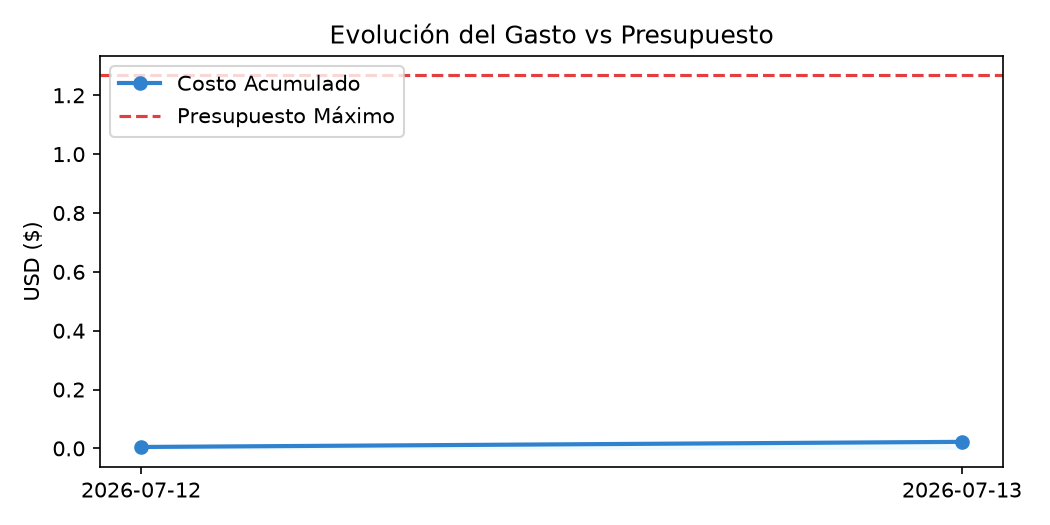
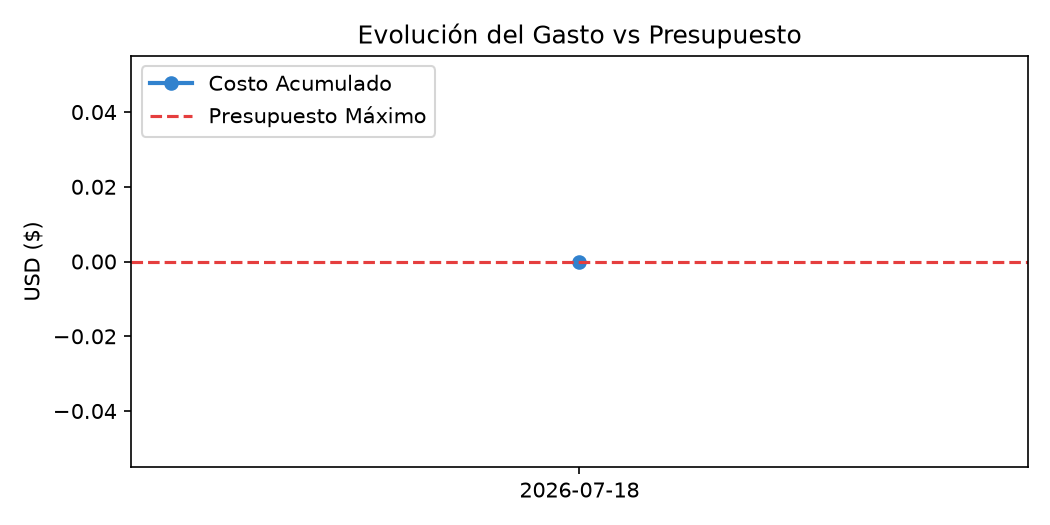
corrige error en log de ejecucion de query

diff --git a/src/utils/database.py b/src/utils/database.py
@@ -37,7 +37,7 @@ def execute_query(query: str, limit: int = 20) -> pd.DataFrame:
 
             tabla_limitada = tabla.head(limit)
             
-            logger.info(f"Consulta ejecutada  Se recuperaron las primeras {tabla.shape[0]} filas (Límite máximo configurado: {limit}).")
+            logger.info(f"Consulta ejecutada  Se recuperaron {tabla.shape[0]} filas (Límite máximo configurado: {limit}).")
             return tabla_limitada
         
     # 1. Error Específico: Falla la conexión (credenciales mal puestas, server apagado, puerto bloqueado)   

diff --git a/artifacts/REPORTE_TOKENOMICS.md b/artifacts/REPORTE_TOKENOMICS.md
@@ -1,14 +1,14 @@
 # Reporte Ejecutivo de Tokenomics y Telemetría
-**Fecha de generación:** 13/07/2026 10:59
+**Fecha de generación:** 18/07/2026 09:45
 
 ## Resumen General de Consumo
 
 | Métrica de Control | Valor Acumulado |
 | :--- | :--- |
-| **Presupuesto Máximo Asignado** | $1.2700 USD |
-| **Costo Financiero Incurrido** | $0.0223 USD |
-| **Presupuesto Restante** | $1.2477 USD |
-| Tokens Totales Consumidos | 89,007 tokens |
+| **Presupuesto Máximo Asignado** | $0.0000 USD |
+| **Costo Financiero Incurrido** | $0.0000 USD |
+| **Presupuesto Restante** | $0.0000 USD |
+| Tokens Totales Consumidos | 9,430 tokens |
 | Latencia Promedio de API | 0.000 ms |
 
 ## Monitoreo Visual del Presupuesto
@@ -19,51 +19,8 @@
 
 |    | fecha      | hora   | provider   | model                 |   input_tokens |   thinking_tokens |   output_tokens | costo_total   | costo_acumulado   |
 |---:|:-----------|:-------|:-----------|:----------------------|---------------:|------------------:|----------------:|:--------------|:------------------|
-|  0 | 2026-07-12 | 19:55  | GEMINI     | gemini-3.1-flash-lite |          1,695 |                 0 |              16 | $0.00043      | $0.00043          |
-|  1 | 2026-07-12 | 19:57  | GEMINI     | gemini-3.1-flash-lite |          1,695 |                 0 |              16 | $0.00043      | $0.00086          |
-|  2 | 2026-07-12 | 19:59  | GEMINI     | gemini-3.1-flash-lite |          1,695 |                 0 |              16 | $0.00043      | $0.00128          |
-|  3 | 2026-07-12 | 20:01  | GEMINI     | gemini-3.1-flash-lite |          1,695 |                 0 |              16 | $0.00043      | $0.00171          |
-|  4 | 2026-07-12 | 20:04  | GEMINI     | gemini-3.1-flash-lite |          1,695 |                 0 |              16 | $0.00043      | $0.00214          |
-|  5 | 2026-07-12 | 20:13  | GEMINI     | gemini-3.1-flash-lite |          1,695 |                 0 |              16 | $0.00043      | $0.00257          |
-|  6 | 2026-07-12 | 20:17  | GEMINI     | gemini-3.1-flash-lite |          1,695 |                 0 |              16 | $0.00043      | $0.00299          |
-|  7 | 2026-07-12 | 20:34  | GEMINI     | gemini-3.1-flash-lite |          1,708 |                 0 |             119 | $0.00046      | $0.00345          |
-|  8 | 2026-07-12 | 20:40  | GEMINI     | gemini-3.1-flash-lite |          1,731 |                 0 |             122 | $0.00046      | $0.00391          |
-|  9 | 2026-07-12 | 20:45  | GEMINI     | gemini-3.1-flash-lite |          1,731 |                 0 |             121 | $0.00046      | $0.00438          |
-| 10 | 2026-07-12 | 21:10  | GEMINI     | gemini-3.1-flash-lite |          1,731 |                 0 |             124 | $0.00046      | $0.00484          |
-| 11 | 2026-07-13 | 00:40  | GEMINI     | gemini-3.1-flash-lite |          1,731 |                 0 |             121 | $0.00046      | $0.00530          |
-| 12 | 2026-07-13 | 00:40  | GEMINI     | gemini-3.1-flash-lite |          1,721 |                 0 |             213 | $0.00048      | $0.00579          |
-| 13 | 2026-07-13 | 00:41  | GEMINI     | gemini-3.1-flash-lite |          1,722 |                 0 |             169 | $0.00047      | $0.00626          |
-| 14 | 2026-07-13 | 00:41  | GEMINI     | gemini-3.1-flash-lite |          1,719 |                 0 |             122 | $0.00046      | $0.00672          |
-| 15 | 2026-07-13 | 00:41  | GEMINI     | gemini-3.1-flash-lite |          1,724 |                 0 |             181 | $0.00048      | $0.00720          |
-| 16 | 2026-07-13 | 00:54  | GEMINI     | gemini-3.1-flash-lite |          1,731 |                 0 |             124 | $0.00046      | $0.00766          |
-| 17 | 2026-07-13 | 00:54  | GEMINI     | gemini-3.1-flash-lite |          1,721 |                 0 |             213 | $0.00048      | $0.00814          |
-| 18 | 2026-07-13 | 00:57  | GEMINI     | gemini-3.1-flash-lite |          1,731 |                 0 |             121 | $0.00046      | $0.00861          |
-| 19 | 2026-07-13 | 00:59  | GEMINI     | gemini-3.1-flash-lite |          1,731 |                 0 |             123 | $0.00046      | $0.00907          |
-| 20 | 2026-07-13 | 01:01  | GEMINI     | gemini-3.1-flash-lite |          1,721 |                 0 |             213 | $0.00048      | $0.00955          |
-| 21 | 2026-07-13 | 01:02  | GEMINI     | gemini-3.1-flash-lite |          1,731 |                 0 |             121 | $0.00046      | $0.01002          |
-| 22 | 2026-07-13 | 01:04  | GEMINI     | gemini-3.1-flash-lite |          1,731 |                 0 |             121 | $0.00046      | $0.01048          |
-| 23 | 2026-07-13 | 01:06  | GEMINI     | gemini-3.1-flash-lite |          1,731 |                 0 |             121 | $0.00046      | $0.01094          |
-| 24 | 2026-07-13 | 01:07  | GEMINI     | gemini-3.1-flash-lite |          1,731 |                 0 |             121 | $0.00046      | $0.01141          |
-| 25 | 2026-07-13 | 01:07  | GEMINI     | gemini-3.1-flash-lite |          1,721 |                 0 |             213 | $0.00048      | $0.01189          |
-| 26 | 2026-07-13 | 01:07  | GEMINI     | gemini-3.1-flash-lite |          1,722 |                 0 |             171 | $0.00047      | $0.01236          |
-| 27 | 2026-07-13 | 01:07  | GEMINI     | gemini-3.1-flash-lite |          1,719 |                 0 |             122 | $0.00046      | $0.01282          |
-| 28 | 2026-07-13 | 10:18  | GEMINI     | gemini-3.1-flash-lite |          1,731 |                 0 |             121 | $0.00046      | $0.01329          |
-| 29 | 2026-07-13 | 10:19  | GEMINI     | gemini-3.1-flash-lite |          1,721 |                 0 |             213 | $0.00048      | $0.01377          |
-| 30 | 2026-07-13 | 10:19  | GEMINI     | gemini-3.1-flash-lite |          1,722 |                 0 |             171 | $0.00047      | $0.01424          |
-| 31 | 2026-07-13 | 10:19  | GEMINI     | gemini-3.1-flash-lite |          1,719 |                 0 |             122 | $0.00046      | $0.01470          |
-| 32 | 2026-07-13 | 10:19  | GEMINI     | gemini-3.1-flash-lite |          1,724 |                 0 |             186 | $0.00048      | $0.01518          |
-| 33 | 2026-07-13 | 10:52  | GEMINI     | gemini-3.1-flash-lite |          1,731 |                 0 |             121 | $0.00046      | $0.01564          |
-| 34 | 2026-07-13 | 10:52  | GEMINI     | gemini-3.1-flash-lite |          1,721 |                 0 |             213 | $0.00048      | $0.01613          |
-| 35 | 2026-07-13 | 10:52  | GEMINI     | gemini-3.1-flash-lite |          1,722 |                 0 |             167 | $0.00047      | $0.01660          |
-| 36 | 2026-07-13 | 10:52  | GEMINI     | gemini-3.1-flash-lite |          1,719 |                 0 |             122 | $0.00046      | $0.01706          |
-| 37 | 2026-07-13 | 10:52  | GEMINI     | gemini-3.1-flash-lite |          1,724 |                 0 |             201 | $0.00048      | $0.01754          |
-| 38 | 2026-07-13 | 10:57  | GEMINI     | gemini-3.1-flash-lite |          1,731 |                 0 |             123 | $0.00046      | $0.01800          |
-| 39 | 2026-07-13 | 10:57  | GEMINI     | gemini-3.1-flash-lite |          1,721 |                 0 |             211 | $0.00048      | $0.01849          |
-| 40 | 2026-07-13 | 10:57  | GEMINI     | gemini-3.1-flash-lite |          1,722 |                 0 |             166 | $0.00047      | $0.01896          |
-| 41 | 2026-07-13 | 10:57  | GEMINI     | gemini-3.1-flash-lite |          1,719 |                 0 |             122 | $0.00046      | $0.01942          |
-| 42 | 2026-07-13 | 10:57  | GEMINI     | gemini-3.1-flash-lite |          1,724 |                 0 |             178 | $0.00048      | $0.01989          |
-| 43 | 2026-07-13 | 10:59  | GEMINI     | gemini-3.1-flash-lite |          1,731 |                 0 |             128 | $0.00046      | $0.02036          |
-| 44 | 2026-07-13 | 10:59  | GEMINI     | gemini-3.1-flash-lite |          1,721 |                 0 |             213 | $0.00048      | $0.02084          |
-| 45 | 2026-07-13 | 10:59  | GEMINI     | gemini-3.1-flash-lite |          1,722 |                 0 |             169 | $0.00047      | $0.02132          |
-| 46 | 2026-07-13 | 10:59  | GEMINI     | gemini-3.1-flash-lite |          1,719 |                 0 |             122 | $0.00046      | $0.02178          |
-| 47 | 2026-07-13 | 10:59  | GEMINI     | gemini-3.1-flash-lite |          1,724 |                 0 |             178 | $0.00048      | $0.02225          |
+|  0 | 2026-07-18 | 09:44  | GEMINI     | gemini-3.1-flash-lite |          1,731 |                 0 |             126 | $0.00000      | $0.00000          |
+|  1 | 2026-07-18 | 09:45  | GEMINI     | gemini-3.1-flash-lite |          1,721 |                 0 |             213 | $0.00000      | $0.00000          |
+|  2 | 2026-07-18 | 09:45  | GEMINI     | gemini-3.1-flash-lite |          1,722 |                 0 |             171 | $0.00000      | $0.00000          |
+|  3 | 2026-07-18 | 09:45  | GEMINI     | gemini-3.1-flash-lite |          1,719 |                 0 |             122 | $0.00000      | $0.00000          |
+|  4 | 2026-07-18 | 09:45  | GEMINI     | gemini-3.1-flash-lite |          1,724 |                 0 |             181 | $0.00000      | $0.00000          |